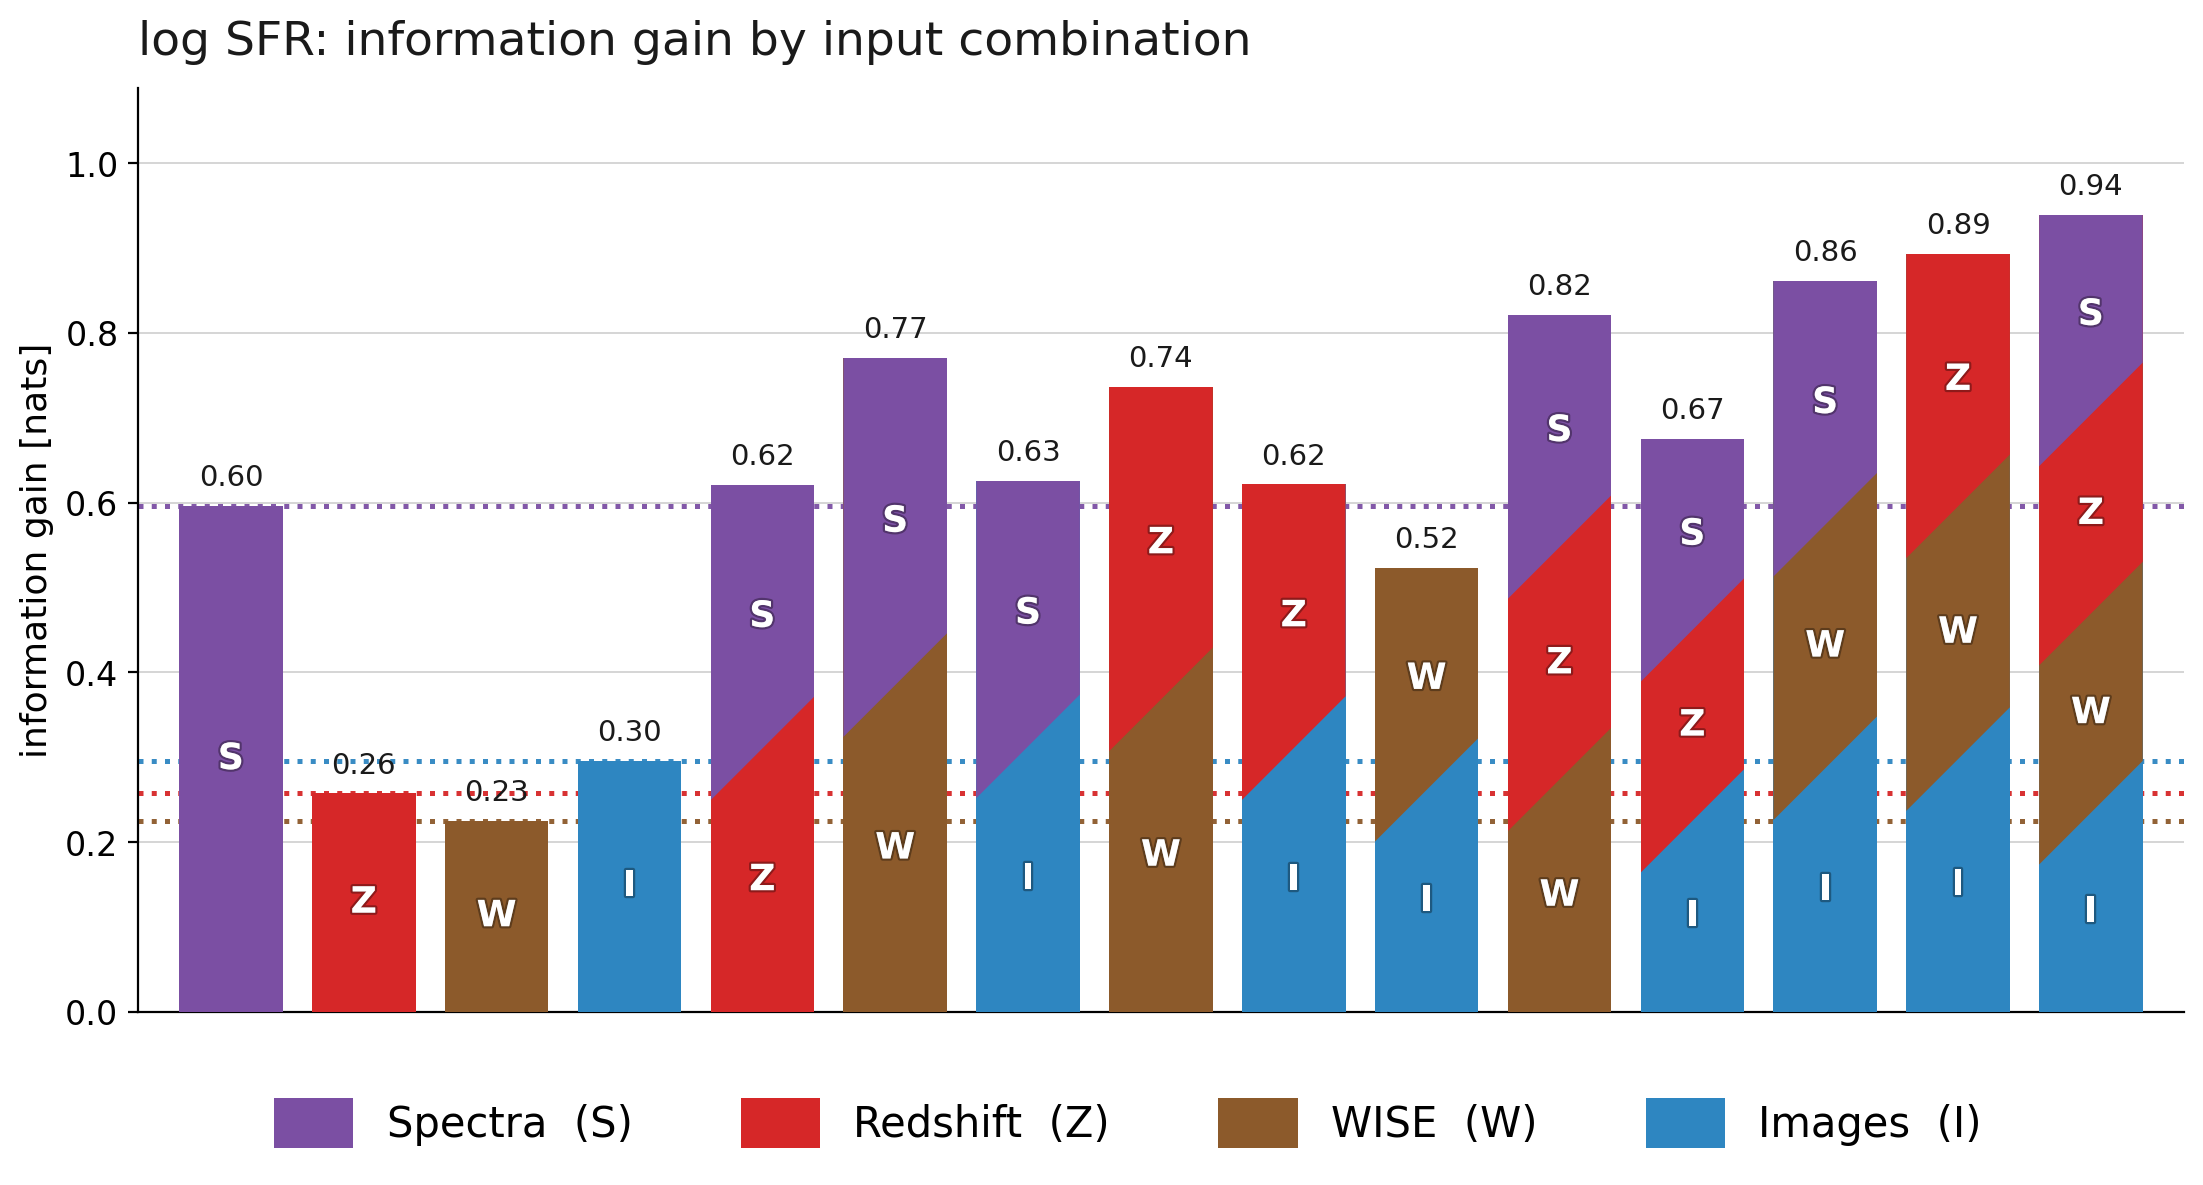
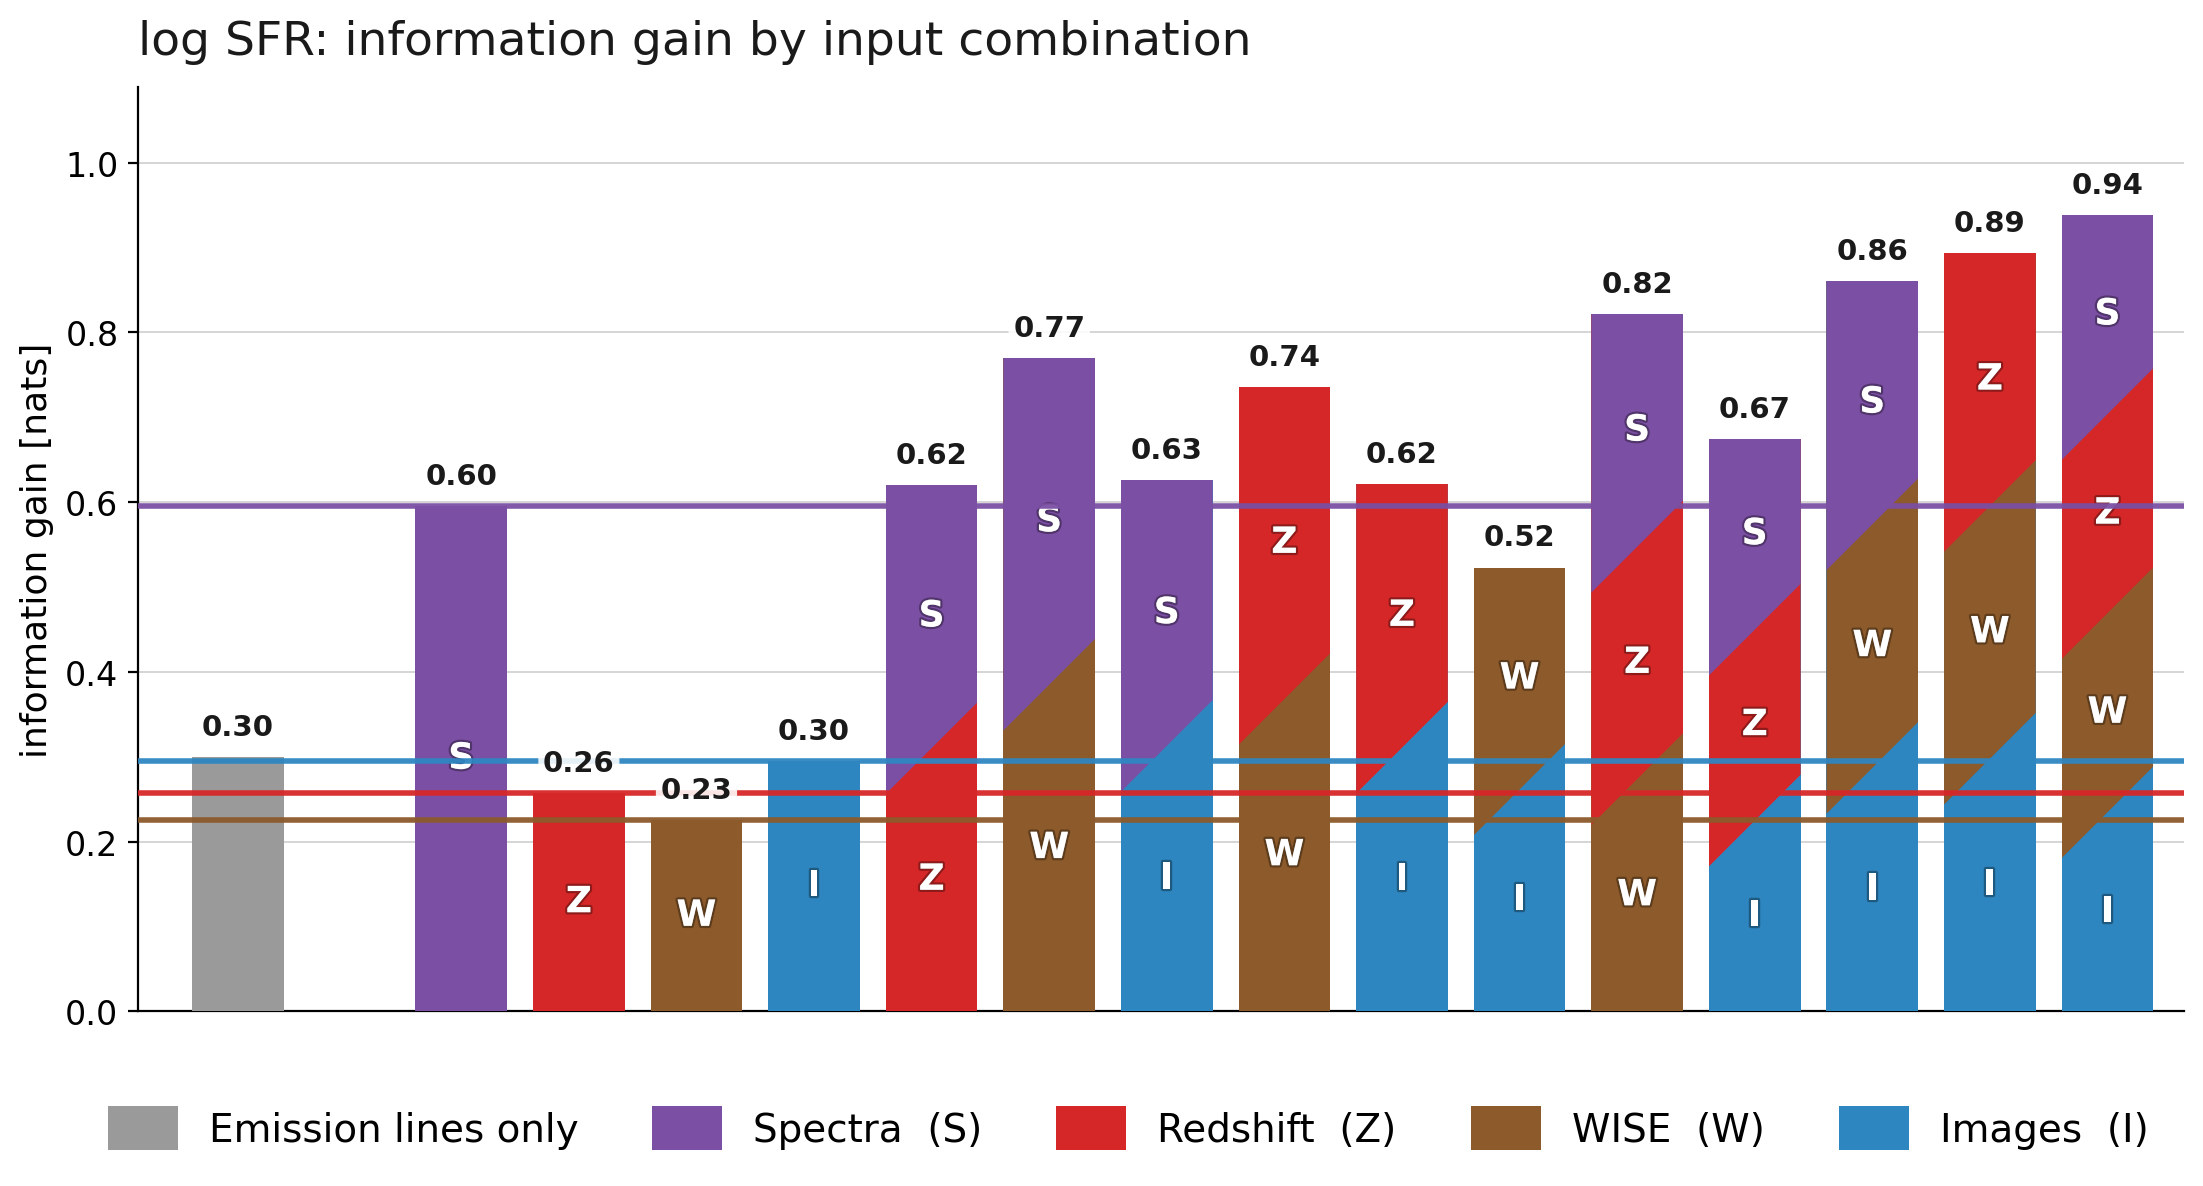
UpSet: solid reference lines on top, readable labels, lines-only bar
Reference lines are solid and drawn above the bars, so a modality's solo level
reads straight across every combination containing it. Value labels are bold on
a white plate, since those lines cross them.

Adds the emission-lines-only baseline as a grey bar at the far left, separated
by a gap and carrying no letter -- it is not a modality combination. It is the
same number the results figure marks, so the two figures now agree by
construction rather than by hand.

diff --git a/docs/make_modality_upset.py b/docs/make_modality_upset.py
@@ -39,6 +39,8 @@ MODALITIES = ["spectra", "z", "wise", "image"]
 NICE = {"spectra": "Spectra", "z": "Redshift", "wise": "WISE", "image": "Images"}
 LETTER = {"spectra": "S", "z": "Z", "wise": "W", "image": "I"}
 COLOR = {"spectra": "#7B4FA3", "z": "#D62728", "wise": "#8C5A2B", "image": "#2E86C1"}
+BASELINE_C = "#9a9a9a"          # emission-lines-only reference bar
+X_OFFSET = 1.9                  # gap between that bar and the combinations
 HEADS = [("log_ml_flux_1", "log flux"), ("log_lx", r"log $L_X$"), ("log_sfr", "log SFR"),
          ("logmstar", r"log $M_*$")]
 
@@ -101,23 +103,37 @@ def banded_bar(ax, x, height, width, members) -> None:
                     path_effects=[pe.withStroke(linewidth=1.6, foreground="#00000055")])
 
 
-def panel(ax, values: dict[str, float], order, title: str) -> None:
-    xs = np.arange(len(order))
+def value_label(ax, x, v, hi) -> None:
+    """Bold, on a white plate: the reference lines cross these numbers."""
+    ax.text(x, v + 0.020 * hi, f"{v:.2f}", ha="center", va="bottom", zorder=8,
+            fontsize=10.5, color=INK, fontweight="bold",
+            bbox=dict(facecolor="white", edgecolor="none", alpha=0.88,
+                      boxstyle="round,pad=0.16"))
+
+
+def panel(ax, values: dict[str, float], order, title: str,
+          baseline: float = np.nan) -> None:
+    xs = np.arange(len(order)) + X_OFFSET
     vals = np.array([values.get(key(c), np.nan) for c in order], float)
-    hi = np.nanmax(vals) if np.isfinite(vals).any() else 1.0
+    hi = np.nanmax([np.nanmax(vals) if np.isfinite(vals).any() else 1.0,
+                    baseline if np.isfinite(baseline) else 0.0])
     # limits FIRST: banded_bar reads transData to get the 45-degree slope right
-    ax.set_xlim(-0.7, len(order) - 0.3)
+    ax.set_xlim(-0.85, len(order) + X_OFFSET - 0.35)
     ax.set_ylim(0, hi * 1.16)
+    if np.isfinite(baseline):
+        ax.bar([0.0], [baseline], width=0.78, color=BASELINE_C, zorder=3)
+        value_label(ax, 0.0, baseline, hi)
     for x, combo, v in zip(xs, order, vals):
         members = [m for m in MODALITIES if m in combo]     # fixed vertical order
         banded_bar(ax, x, v, 0.78, members)
         if np.isfinite(v):
-            ax.text(x, v + 0.018 * hi, f"{v:.2f}", ha="center", va="bottom",
-                    fontsize=10.5, color=INK)
+            value_label(ax, x, v, hi)
+    # solid and ON TOP of the bars, so each modality's solo level can be read
+    # straight across the combinations that contain it
     for m in MODALITIES:
         v = values.get(key((m,)), np.nan)
         if np.isfinite(v):
-            ax.axhline(v, ls=":", lw=1.8, color=COLOR[m], alpha=0.95, zorder=2)
+            ax.axhline(v, ls="-", lw=2.0, color=COLOR[m], alpha=0.95, zorder=6)
     ax.set_ylabel("information gain [nats]", fontsize=13)
     ax.set_title(title, fontsize=17, color=INK, loc="left", pad=12)
     ax.grid(axis="y", color=GRID, lw=0.7, zorder=0)
@@ -133,6 +149,8 @@ def main() -> None:
                                  formatter_class=argparse.RawDescriptionHelpFormatter)
     ap.add_argument("--metrics", type=Path, required=True)
     ap.add_argument("--figdir", type=Path, default=Path("docs/figures"))
+    ap.add_argument("--baseline", type=Path, default=None,
+                    help="baseline_lines_only_clean.csv; drawn as the leftmost grey bar")
     ap.add_argument("--single-label", default="log flux")
     args = ap.parse_args()
 
@@ -146,15 +164,23 @@ def main() -> None:
     else:
         targets = [("flux", args.single_label, df)]
 
-    handles = [Patch(facecolor=COLOR[m], edgecolor="none",
-                     label=f"{NICE[m]}  ({LETTER[m]})") for m in MODALITIES]
+    base = pd.read_csv(args.baseline) if args.baseline and args.baseline.exists() else None
+    handles = [Patch(facecolor=BASELINE_C, edgecolor="none", label="Emission lines only")]
+    handles += [Patch(facecolor=COLOR[m], edgecolor="none",
+                      label=f"{NICE[m]}  ({LETTER[m]})") for m in MODALITIES]
     for head, lbl, d in targets:
         vals = dict(zip(d.input_group.astype(str), d.info_gain_nats.astype(float)))
         fig, ax = plt.subplots(figsize=(13.2, 6.0))
-        panel(ax, vals, order, f"{lbl}: information gain by input combination")
-        fig.legend(handles=handles, loc="lower center", ncol=4, frameon=False,
-                   fontsize=15, bbox_to_anchor=(0.5, -0.035), handlelength=1.9,
-                   handleheight=1.5, columnspacing=2.6)
+        bval = np.nan
+        if base is not None:
+            r = base[base["head"] == head]
+            if len(r):
+                bval = float(r.info_gain_nats.iloc[0])
+        panel(ax, vals, order, f"{lbl}: information gain by input combination",
+              baseline=bval)
+        fig.legend(handles=handles, loc="lower center", ncol=5, frameon=False,
+                   fontsize=14, bbox_to_anchor=(0.5, -0.035), handlelength=1.8,
+                   handleheight=1.4, columnspacing=1.9)
         out = args.figdir / f"fig_upset_{head}.png"
         fig.savefig(out, dpi=200, bbox_inches="tight")
         plt.close(fig)
